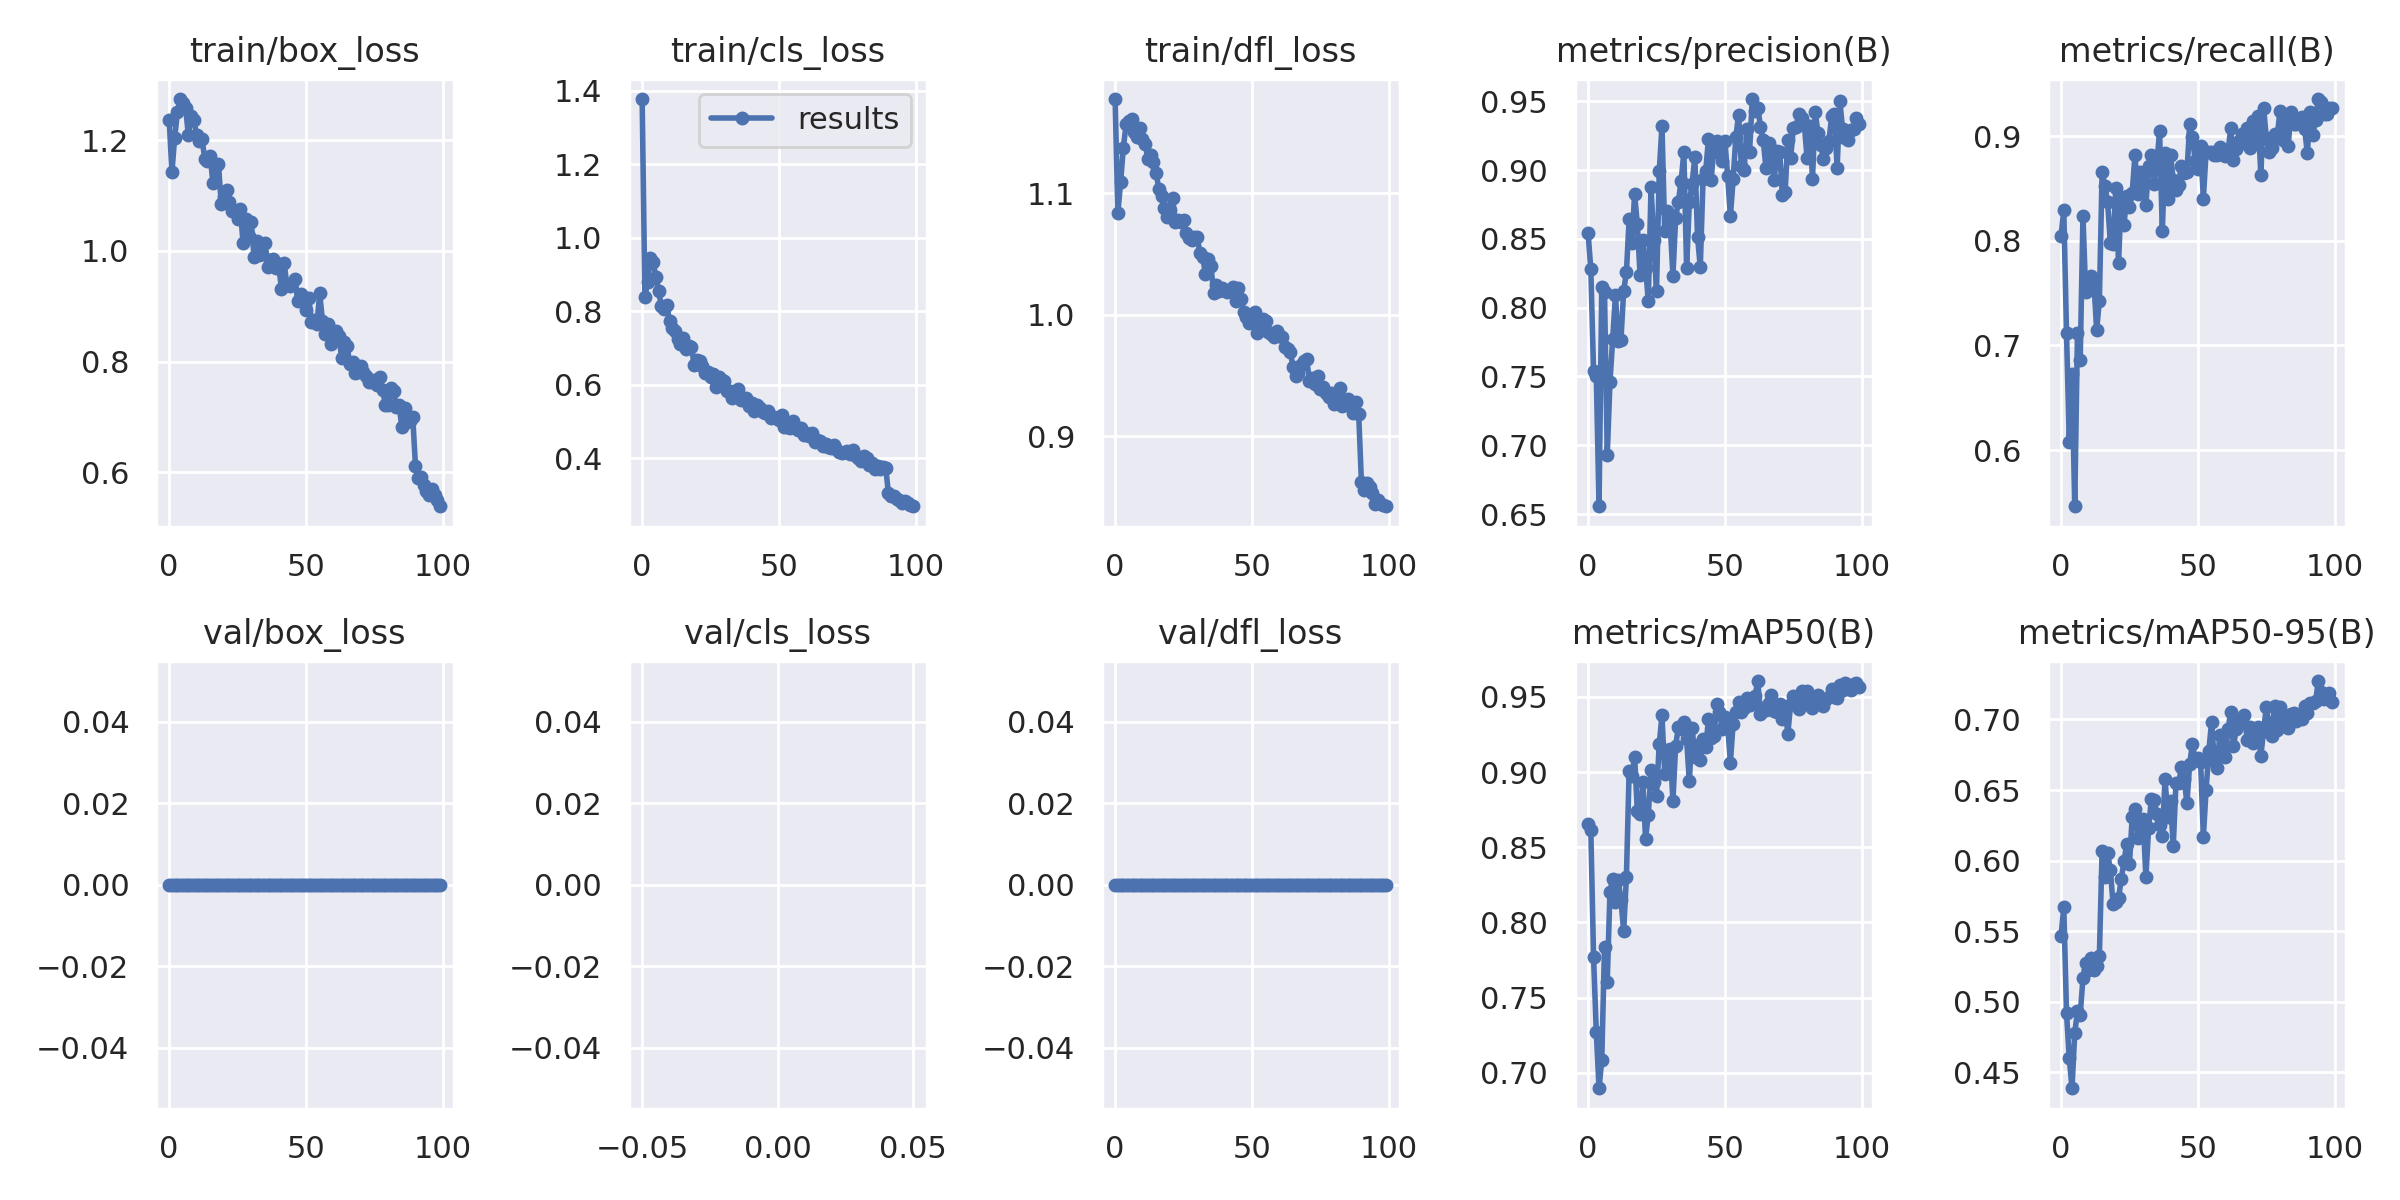
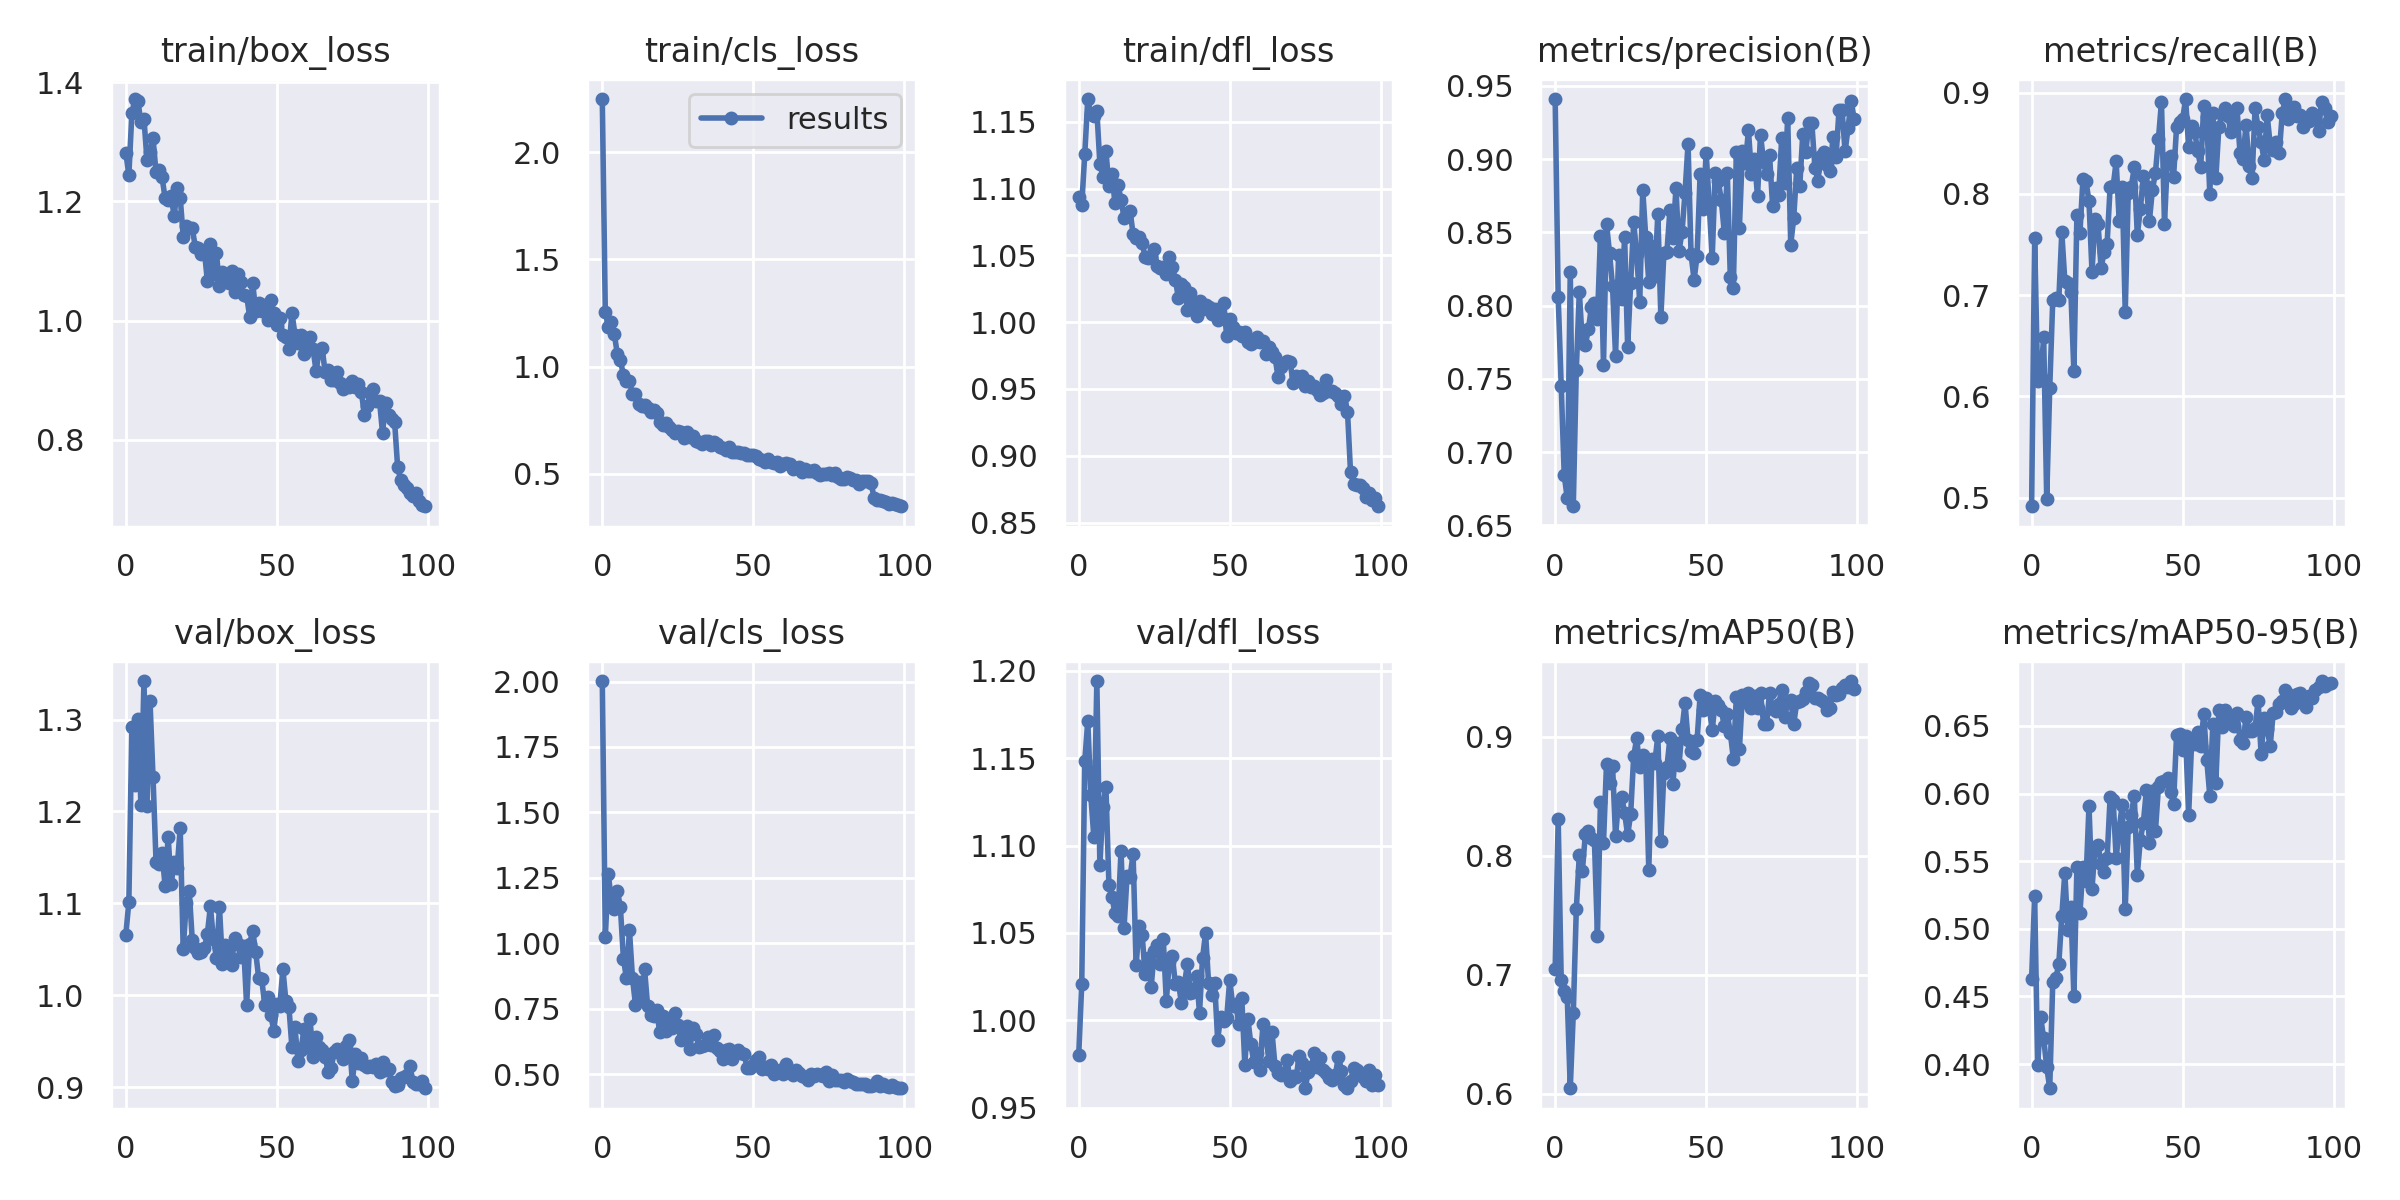
update images

diff --git a/README.md b/README.md
@@ -17,7 +17,7 @@ YOLOv8 requires images in a specific annotation format. To transform the annotat
 </p>
 
 ## Training YOLOv8
-Roboflow provide ready to use training notebooks, and I used the [YOLOv8 notebook](https://github.com/roboflow/notebooks/blob/main/notebooks/train-yolov8-object-detection-on-custom-dataset.ipynb). The notebook is provided here in the file `yolov8-kaggle-ships.ipynb`. Training was performed on Google Colab Pro using a Tesla T4. The results of training for 100 epochs are below (yolov8m model):
+Roboflow provide ready to use training notebooks, and I used the [YOLOv8 notebook](https://github.com/roboflow/notebooks/blob/main/notebooks/train-yolov8-object-detection-on-custom-dataset.ipynb). The notebook is provided here in the file `yolov8-kaggle-ships.ipynb`. Training was performed on Google Colab Pro using a Tesla T4. The results of training for 100 epochs are below (yolov8n model):
 
 <p align="center">
 <img src="images/training.png" width="700">
@@ -27,10 +27,10 @@ Roboflow provide ready to use training notebooks, and I used the [YOLOv8 noteboo
 
 | Metric      | yolov8n | yolov8m   |
 | :----:      |  :----: | :----:    |
-| Precision   | tbc     | 0.943     |
-| Recall      | tbc     | 0.927     |
-| mAP@.5      | tbc     | 0.957     |
-| mAP@.5:.95  | tbc     | 0.720     |
+| Precision   | 0.919   | 0.943     |
+| Recall      | 0.863   | 0.927     |
+| mAP@.5      | 0.941   | 0.957     |
+| mAP@.5:.95  | 0.683   | 0.720     |
 
 
 Reviewing the predictions on the validation set I observed some errors, particularly for small boats. Overall the results are very encouraging:
